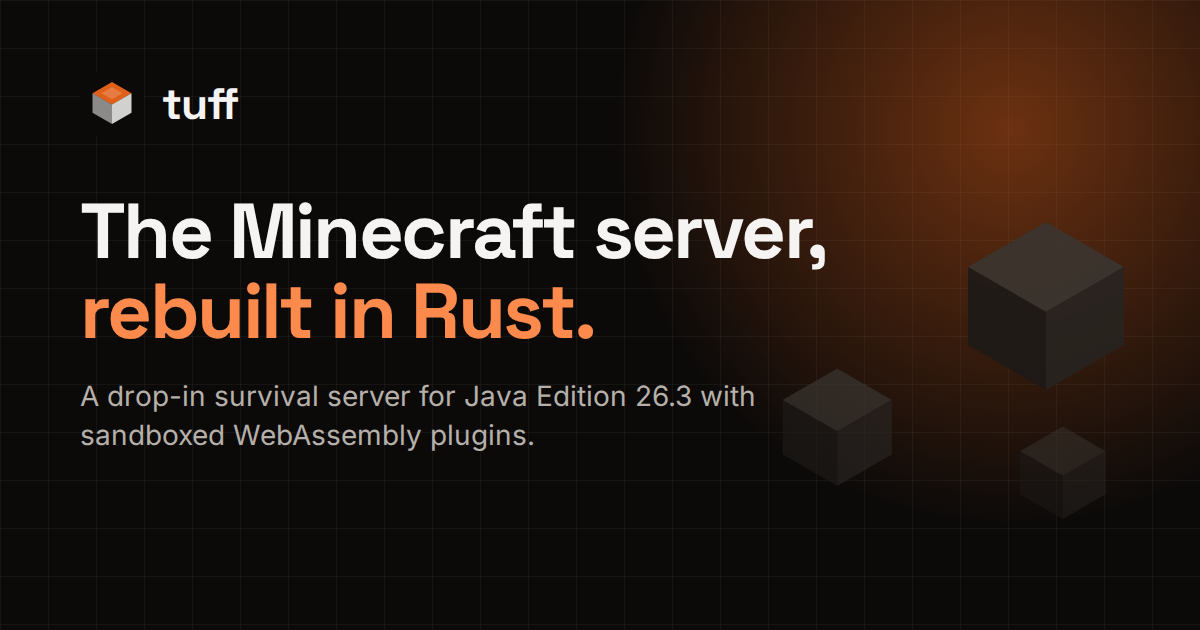
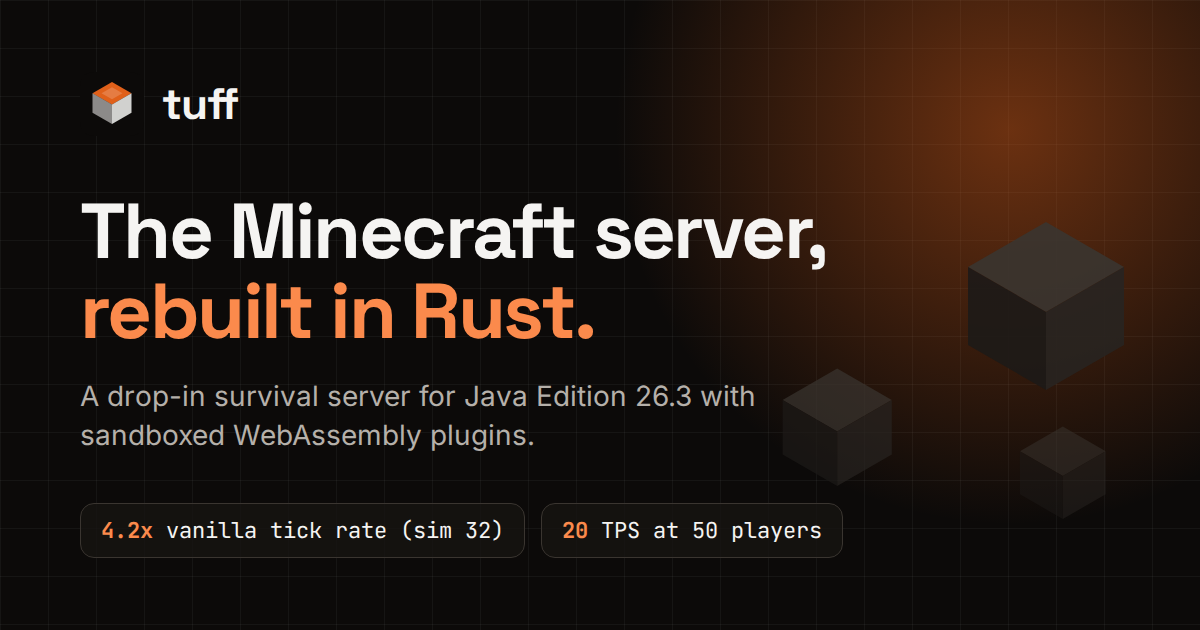
feat: restore performance content with identical-settings numbers
Village 4.2x the vanilla tick rate at simulation distance 32 (on ~4.8
cores vs 1) and 1.9x at 10, stress 20 vs 2.1 TPS at 50 players; drops
the memory claim since vanilla's RSS is its pre-allocated heap.

Changed region(s): [[0.0925, 0.8143, 0.4317, 0.8746], [0.4625, 0.8143, 0.6783, 0.8746]]

diff --git a/src/components/Perf.tsx b/src/components/Perf.tsx
@@ -4,25 +4,27 @@ import { useReveal } from "../lib/motion";
 type Metric = { bench: "Village" | "Stress"; label: string; unit: string; tuff: number; vanilla: number; better: "higher" | "lower"; ratio: string };
 
 export const metrics: Metric[] = [
-  { bench: "Village", label: "Ticks per second", unit: "ticks/s", tuff: 1026, vanilla: 89.6, better: "higher", ratio: "11.5x" },
-  { bench: "Village", label: "p99 tick", unit: "ms", tuff: 2.13, vanilla: 12.9, better: "lower", ratio: "6.1x lower" },
-  { bench: "Village", label: "Server memory", unit: "MiB", tuff: 1379, vanilla: 8966, better: "lower", ratio: "6.5x lower" },
-  { bench: "Stress", label: "TPS", unit: "TPS", tuff: 20.35, vanilla: 2.15, better: "higher", ratio: "9.5x" },
-  { bench: "Stress", label: "Mean tick", unit: "ms", tuff: 48.2, vanilla: 190, better: "lower", ratio: "3.9x lower" },
-  { bench: "Stress", label: "Server memory", unit: "MiB", tuff: 2514, vanilla: 9005, better: "lower", ratio: "3.6x lower" },
+  { bench: "Village", label: "Ticks per second, sim 32", unit: "ticks/s", tuff: 386, vanilla: 91.6, better: "higher", ratio: "4.2x" },
+  { bench: "Village", label: "Ticks per second, sim 10", unit: "ticks/s", tuff: 1019, vanilla: 529, better: "higher", ratio: "1.9x" },
+  { bench: "Village", label: "p99 tick, sim 32", unit: "ms", tuff: 4.52, vanilla: 12.75, better: "lower", ratio: "2.8x lower" },
+  { bench: "Stress", label: "TPS, sim 10", unit: "TPS", tuff: 20.0, vanilla: 2.12, better: "higher", ratio: "9.4x" },
+  { bench: "Stress", label: "TPS, sim 32", unit: "TPS", tuff: 14.2, vanilla: 1.92, better: "higher", ratio: "7.4x" },
+  { bench: "Stress", label: "Mean tick, sim 10", unit: "ms", tuff: 47.7, vanilla: 191.9, better: "lower", ratio: "4.0x lower" },
 ];
 
 const table = [
-  ["Village, 10-day sprint (1 player, 32-chunk view)", "ticks per second", "1026", "89.6", "11.5x"],
-  ["Village", "mean tick (ms)", "0.97", "11.15", "11.5x lower"],
-  ["Village", "p99 tick (ms)", "2.13", "12.9", "6.1x lower"],
-  ["Village", "server memory (MiB)", "1379", "8966", "6.5x lower"],
-  ["Village", "CPU cores used", "2.70", "1.02", ""],
-  ["Stress, 50 players mixed (12 flying, 12 mining, 26 walking; ~1250 entities; view 10)", "TPS", "20.35", "2.15", "9.5x (tuff at the 20 TPS cap)"],
-  ["Stress", "mean tick (ms)", "48.2", "190", "3.9x lower"],
-  ["Stress", "p99 tick (ms)", "102", "253", "2.5x lower"],
-  ["Stress", "server memory (MiB)", "2514", "9005", "3.6x lower"],
-  ["Stress", "CPU cores used", "15.35", "3.90", ""],
+  ["Village, sim 32 (1 player, 32-chunk view, 2-day sprint)", "ticks per second", "386", "91.6", "4.2x"],
+  ["Village, sim 32", "mean / p99 tick (ms)", "2.58 / 4.52", "10.9 / 12.8", ""],
+  ["Village, sim 32", "CPU cores used", "4.8", "1.0", ""],
+  ["Village, sim 10", "ticks per second", "1019", "529", "1.9x"],
+  ["Village, sim 10", "mean / p99 tick (ms)", "0.97 / 2.23", "1.88 / 3.17", ""],
+  ["Village, sim 10", "CPU cores used", "2.8", "1.1", ""],
+  ["Stress, sim 10 (50 players: 12 flying, 12 mining, 26 walking; 1250 mobs)", "TPS", "20.0", "2.1", "tuff at the 20 TPS cap"],
+  ["Stress, sim 10", "mean / p99 tick (ms)", "48 / 106", "192 / 254", ""],
+  ["Stress, sim 10", "CPU cores used", "15.4", "4.0", ""],
+  ["Stress, sim 32", "TPS", "14.2", "1.9", "7.4x"],
+  ["Stress, sim 32", "mean / p99 tick (ms)", "70 / 180", "196 / 241", ""],
+  ["Stress, sim 32", "CPU cores used", "14.8", "3.5", ""],
 ];
 
 const fmt = (n: number) => n.toLocaleString("en-US");

diff --git a/src/pages/Home.tsx b/src/pages/Home.tsx
@@ -96,9 +96,9 @@ function Hero() {
 function Stats() {
   const ref = useReveal<HTMLDivElement>();
   const stats = [
-    ["11.5x", "the vanilla tick rate", "Village benchmark, 10-day sprint"],
-    ["6.5x", "less server memory", "Village benchmark, 1379 vs 8966 MiB"],
-    ["20.35", "TPS with 50 players", "Stress run, vanilla held 2.15"],
+    ["4.2x", "the vanilla tick rate", "Village bench, sim distance 32, ~4.8 cores vs 1"],
+    ["1.9x", "at sim distance 10", "Village bench, 1019 vs 529 ticks/s"],
+    ["20", "TPS with 50 players", "Stress run, sim 10; vanilla held 2.1"],
     ["1.13+", "worlds load and upgrade", "Data version 1519 or newer"],
   ];
   return (
@@ -232,8 +232,8 @@ function Performance() {
     <Section
       id="performance"
       eyebrow="Performance"
-      title={<>More ticks. <span className="text-fg-muted">Less memory.</span></>}
-      intro="Measured side by side on a 16-vCPU Linux machine: tuff built with the release-opt profile against vanilla 26.3 on its bundled OpenJDK 25 with an 8 GB heap and Aikar's G1 flags. Both servers were warmed up first. Three alternating runs per server; medians shown."
+      title={<>More ticks. <span className="text-fg-muted">More cores.</span></>}
+      intro="Measured side by side on a 16-vCPU Linux VM (Intel i9-13900HK host): tuff built with the release-opt profile against vanilla 26.3 on its bundled OpenJDK 25 with an 8 GB heap and Aikar's G1 flags. Same seed, view and simulation distance, players and durations for both; worlds on disk; warmed up first. Five interleaved runs per server on a quiet machine; medians shown."
       cubes={[
         { side: "left", top: "30%", size: 110, rate: 210, axis: [0.6, 1, 0.2] },
         { side: "right", top: "82%", size: 58, rate: 320, axis: [1, 0.4, 0.5], mobile: true },
@@ -246,8 +246,8 @@ function Performance() {
         </div>
       </div>
       <div className="reveal mt-8 grid grid-cols-[minmax(0,1fr)] gap-4 text-sm leading-6 text-fg-muted md:grid-cols-2">
-        <p className="card p-5"><strong className="text-fg">tuff parallelises ticking across cores, so it uses more CPU:</strong> 2.70 cores against 1.02 in the village run, and 15.35 against 3.90 in the stress run, where it is near saturation on 16 cores. That makes the mean-tick ratio a fairer capacity comparison than TPS.</p>
-        <p className="card p-5"><strong className="text-fg">Vanilla's memory is high partly because its 8 GB heap is pre-touched.</strong> Reproduce the runs with <code className="font-mono text-[0.85em] text-fg">cargo bench --bench village -- --server both</code> or the <code className="font-mono text-[0.85em] text-fg">stress</code> bench.</p>
+        <p className="card p-5"><strong className="text-fg">The lead comes from parallelism, not from doing less work:</strong> at simulation distance 32 tuff runs 4.2x the village tick rate using about 4.8 cores against vanilla's 1, and per core it is slightly slower. In the stress run it uses 15 of 16 cores. The village run also ends with fewer entities on tuff (about 540 vs 810).</p>
+        <p className="card p-5"><strong className="text-fg">Memory is not compared:</strong> vanilla's resident memory is dominated by its pre-allocated 8 GB heap. Reproduce the runs with <code className="font-mono text-[0.85em] text-fg">cargo bench --bench village -- --server both</code> or the <code className="font-mono text-[0.85em] text-fg">stress</code> bench.</p>
       </div>
     </Section>
   );

diff --git a/scripts/prerender.ts b/scripts/prerender.ts
@@ -68,13 +68,14 @@ const home = `<main data-snapshot style="max-width:72rem;margin:0 auto;padding:4
 <p>tuff is a drop-in survival server for Minecraft Java Edition 26.3. The vanilla game runs as built-in features on an inert core, and external plugins are sandboxed WebAssembly modules.</p>
 <p><a href="${SITE}docs/introduction/">Get started</a> | <a href="${SITE}blog/">Blog</a> | <a href="https://github.com/brenfwd/tuff">GitHub</a></p>
 ${SHOW_PERFORMANCE ? `<h2>Performance</h2>
+<p>Same seed, view and simulation distance, players and durations for both servers; 16-vCPU Linux VM; vanilla 26.3 on OpenJDK 25 with an 8 GB heap and Aikar's flags; medians of five runs.</p>
 <table><thead><tr><th>Benchmark</th><th>Metric</th><th>tuff</th><th>Vanilla</th></tr></thead><tbody>
-<tr><td>Village, 10-day sprint</td><td>ticks per second</td><td>1026</td><td>89.6</td></tr>
-<tr><td>Village</td><td>p99 tick (ms)</td><td>2.13</td><td>12.9</td></tr>
-<tr><td>Village</td><td>server memory (MiB)</td><td>1379</td><td>8966</td></tr>
-<tr><td>Stress, 50 players mixed</td><td>TPS</td><td>20.35</td><td>2.15</td></tr>
-<tr><td>Stress</td><td>mean tick (ms)</td><td>48.2</td><td>190</td></tr>
-<tr><td>Stress</td><td>server memory (MiB)</td><td>2514</td><td>9005</td></tr>
+<tr><td>Village, sim distance 32</td><td>ticks per second</td><td>386</td><td>91.6</td></tr>
+<tr><td>Village, sim distance 32</td><td>CPU cores used</td><td>4.8</td><td>1.0</td></tr>
+<tr><td>Village, sim distance 10</td><td>ticks per second</td><td>1019</td><td>529</td></tr>
+<tr><td>Stress, 50 players, sim distance 10</td><td>TPS</td><td>20.0</td><td>2.1</td></tr>
+<tr><td>Stress, 50 players, sim distance 32</td><td>TPS</td><td>14.2</td><td>1.9</td></tr>
+<tr><td>Stress, 50 players, sim distance 10</td><td>CPU cores used</td><td>15.4</td><td>4.0</td></tr>
 </tbody></table>
 ` : ""}<h2>Documentation</h2>${docNav}</main>`;
 

diff --git a/src/components/TickRace.tsx b/src/components/TickRace.tsx
@@ -1,7 +1,7 @@
 import { useEffect, useRef, useState } from "react";
 import { prefersReducedMotion } from "../lib/motion";
 
-const RATES = { tuff: 1026, vanilla: 89.6 };
+const RATES = { tuff: 386, vanilla: 91.6 };
 const DAY = 24000;
 
 /** Counts ticks at the measured village-benchmark rates while the panel is on screen. */
@@ -73,7 +73,7 @@ export function TickRace() {
         })}
       </div>
       <p className="mt-6 border-t border-line pt-4 text-xs leading-5 text-fg-subtle">
-        Village benchmark, 10-day sprint, 1 player, 32-chunk view. A Minecraft day is 24,000 ticks, so tuff simulates about 2.6 days a minute where vanilla manages about 0.22.
+        Village benchmark, 2-day sprint, 1 player, view and simulation distance 32 for both servers; tuff on about 4.8 cores, vanilla on 1. A Minecraft day is 24,000 ticks, so tuff simulates about 0.97 days a minute where vanilla manages about 0.23.
       </p>
     </div>
   );

diff --git a/src/components/Footer.tsx b/src/components/Footer.tsx
@@ -5,7 +5,7 @@ import { REPO_URL } from "../lib/site";
 export function Footer() {
   const cols = [
     { title: "Get started", links: [["/docs/introduction", "Introduction"], ["/docs/installing", "Installing"], ["/docs/running", "Running"], ["/docs/settings", "Settings"]] },
-    { title: "Build", links: [["/docs/plugins", "WebAssembly plugins"], ["/docs/features", "Built-in features"], ["/docs/data-packs", "Data packs"]] },
+    { title: "Build", links: [["/docs/plugins", "WebAssembly plugins"], ["/docs/features", "Built-in features"], ["/docs/data-packs", "Data packs"], ["/docs/performance", "Performance"]] },
     { title: "Project", links: [["/blog", "Blog"], [REPO_URL, "Source code"], [`${REPO_URL}/issues`, "Issues"], [`${REPO_URL}/blob/main/CONTRIBUTING.md`, "Contributing"], ["/docs/license", "License"]] },
   ];
   return (

diff --git a/scripts/og-image.ts b/scripts/og-image.ts
@@ -37,7 +37,7 @@ svg.cubes{position:absolute;right:40px;bottom:30px}
 <div class="wrap"><div class="brand">${favicon.replace("<svg ", '<svg width="64" height="64" ')}tuff</div>
 <h1>The Minecraft server,<br><span>rebuilt in Rust.</span></h1>
 <p>A drop-in survival server for Java Edition 26.3 with sandboxed WebAssembly plugins.</p>
-${SHOW_PERFORMANCE ? `<div class="stats"><div class="stat"><b>11.5x</b> vanilla tick rate</div><div class="stat"><b>6.5x</b> less memory</div><div class="stat"><b>20.35</b> TPS at 50 players</div></div>` : ""}</div>
+${SHOW_PERFORMANCE ? `<div class="stats"><div class="stat"><b>4.2x</b> vanilla tick rate (sim 32)</div><div class="stat"><b>20</b> TPS at 50 players</div></div>` : ""}</div>
 </body></html>`;
 
 const browser = await chromium.launch();

diff --git a/src/lib/site.ts b/src/lib/site.ts
@@ -1,8 +1,7 @@
 export const SITE_URL = "https://tuff.bforward.me/";
 export const REPO_URL = "https://github.com/brenfwd/tuff";
 export const SITE_NAME = "tuff";
-// Off until the side-by-side benchmark is re-measured with identical settings.
-export const SHOW_PERFORMANCE = false;
+export const SHOW_PERFORMANCE = true;
 export const TAGLINE = "A Minecraft Java Edition server written in Rust";
 export const DESCRIPTION =
   "tuff is a high-performance Minecraft Java Edition 26.3 server written in Rust. The vanilla game runs as built-in features on an inert core, and external plugins are sandboxed WebAssembly modules.";

diff --git a/src/components/Header.tsx b/src/components/Header.tsx
@@ -19,6 +19,7 @@ function useTheme() {
 const nav = [
   { href: "/docs/introduction", label: "Docs", match: "/docs" },
   { href: "/docs/plugins", label: "Plugins", match: "/docs/plugins" },
+  { href: "/docs/performance", label: "Performance", match: "/docs/performance" },
   { href: "/blog", label: "Blog", match: "/blog" },
 ];
 

diff --git a/content/docs/performance.md b/content/docs/performance.md
@@ -5,30 +5,35 @@ group: Reference
 source: README.md
 ---
 
-Measured side by side on a 16-vCPU Linux machine: tuff built with the
-`release-opt` profile, vanilla 26.3 on its bundled OpenJDK 25 with
-`-Xms8G -Xmx8G` and Aikar's G1 flags. Both servers were warmed up first:
-the stress run ran 120 s before a 60 s measured window, and the village run
-did a discarded 1-day sprint before the measured 10-day sprint. Three
-alternating runs per server; medians shown.
+Measured side by side on a 16-vCPU Linux VM (Intel i9-13900HK host):
+tuff built with the `release-opt` profile, vanilla 26.3 on its bundled
+OpenJDK 25 with `-Xms8G -Xmx8G` and Aikar's G1 flags. Both servers used the
+same seed, view and simulation distance, players and durations, with worlds
+on disk. Each run started on a quiet machine after a warm-up (village: a
+discarded 1-day sprint before a measured 2-day sprint; stress: 120 s before
+a 60 s window). Five interleaved runs per server; medians shown.
 
-| Benchmark | Metric | tuff | Vanilla | Ratio |
+| Benchmark | Sim distance | Metric | tuff | Vanilla |
 | --- | --- | --- | --- | --- |
-| Village, 10-day sprint (1 player, 32-chunk view) | ticks per second | 1026 | 89.6 | 11.5x |
-| Village | mean tick (ms) | 0.97 | 11.15 | 11.5x lower |
-| Village | p99 tick (ms) | 2.13 | 12.9 | 6.1x lower |
-| Village | server memory (MiB) | 1379 | 8966 | 6.5x lower |
-| Village | CPU cores used | 2.70 | 1.02 | |
-| Stress, 50 players mixed (12 flying, 12 mining, 26 walking; ~1250 entities; view 10) | TPS | 20.35 | 2.15 | 9.5x (tuff at the 20 TPS cap) |
-| Stress | mean tick (ms) | 48.2 | 190 | 3.9x lower |
-| Stress | p99 tick (ms) | 102 | 253 | 2.5x lower |
-| Stress | server memory (MiB) | 2514 | 9005 | 3.6x lower |
-| Stress | CPU cores used | 15.35 | 3.90 | |
+| Village (1 player, 32-chunk view) | 32 | ticks per second | 386 | 91.6 |
+| | 32 | mean / p99 tick (ms) | 2.58 / 4.52 | 10.9 / 12.8 |
+| | 32 | CPU cores used | 4.8 | 1.0 |
+| | 10 | ticks per second | 1019 | 529 |
+| | 10 | mean / p99 tick (ms) | 0.97 / 2.23 | 1.88 / 3.17 |
+| | 10 | CPU cores used | 2.8 | 1.1 |
+| Stress (50 players: 12 flying, 12 mining, 26 walking; 1250 mobs) | 10 | TPS | 20.0 (cap) | 2.1 |
+| | 10 | mean / p99 tick (ms) | 48 / 106 | 192 / 254 |
+| | 10 | CPU cores used | 15.4 | 4.0 |
+| | 32 | TPS | 14.2 | 1.9 |
+| | 32 | mean / p99 tick (ms) | 70 / 180 | 196 / 241 |
+| | 32 | CPU cores used | 14.8 | 3.5 |
 
-tuff parallelises ticking across cores, so it uses more CPU; in the stress
-run it is near saturation on 16 cores, so the mean-tick ratio is a fairer
-capacity comparison than TPS. Vanilla's memory is high partly because its
-8 GB heap is pre-touched.
+tuff's lead comes from spreading the tick across cores, not from doing less
+work per core: on the village at simulation distance 32 it runs 4.2x the
+tick rate using about 4.8 cores against vanilla's 1, and per core it is
+slightly slower. Memory is not compared: vanilla's RSS is dominated by its
+pre-allocated 8 GB heap. The village run also ends with fewer entities on
+tuff (about 540 vs 810), so mob behaviour is not yet an exact match.
 
 To reproduce, run `cargo bench --bench village -- --server both` or
 `cargo bench --bench stress -- --server both` (`--server` also takes

diff --git a/content/docs/settings.md b/content/docs/settings.md
@@ -204,3 +204,40 @@ selection every 4 ticks (every 8 when no player is within 32 blocks)
 instead of every 2. Tempting, breeding, wandering and targeting still
 work, with a few ticks more latency. The server logs once when a region
 enters or leaves crowd mode. Off, behaviour is vanilla.
+
+## Item conservation and save safety
+
+Item stacks are move-only: a stack moves between players, containers,
+entities and regions instead of being copied, and appears (loot,
+crafting, `/give`) or disappears (eating, burning, `/clear`) only through
+a few audited doors; plugins follow the same rules (see What the ABI
+offers). Menu clicks and container and entity-container transactions
+between a player and a region are checked; other transfers (dropped items,
+hoppers and item ports across regions, hand-to-mob handovers) are not yet.
+In release builds the checks are on unless
+`tuff.items.conservationChecks` is `false`. An operation that would make
+or lose items is refused instead of applied: the server logs it, writes a
+`tuff:item_conservation` row to the audit log, and quarantines the region
+and player involved. A quarantined region trades no items with players and
+is not saved until it unloads; a quarantined player is not saved and,
+while `tuff.items.conservationKick` is `true` (the default), is
+disconnected so its client reloads the last consistent save. Debug builds
+and tests always check, and a stack dropped without being stored or burned
+panics there (release builds log it); every world save reports items lost
+that way.
+
+| Key | Default | Effect |
+|-----|---------|--------|
+| `tuff.items.conservationChecks` | `true` | Check item moves in release builds and refuse, audit and quarantine on a violation |
+| `tuff.items.conservationKick` | `true` | Disconnect a player involved in a refused item operation |
+
+A world save lands whole or not at all. Before a save's first write to a
+chunk or player file, the previous contents go to a journal (a
+`tuff-journal` directory in a world folder, two tables in a server file),
+and the save commits once every player and chunk it covers is written. If
+the server stops before that (a crash, an I/O error, a save that failed),
+the next start restores the last complete save, so a player is never
+loaded newer than the chests it traded with. A failed write stops commits
+until the next start, which then restores the last complete save; the log
+says so. A save whose snapshot takes longer than a second is completed by
+the next save.

diff --git a/content/docs/plugins.md b/content/docs/plugins.md
@@ -234,6 +234,11 @@ backend that emits a core module can target it.
   65,536 changes.
 - Block events: a player broke or placed a block (payload: `x y z
   dimension state`). They arrive after the change and cannot cancel it.
+- Items: a plugin holds items only in host-owned stashes (`stash-new`,
+  `stash-mint`, `stash-split`, `stash-merge`, `stash-burn`) and moves them
+  with `give-stash` and `take-into-stash`, so it can make, move and use up
+  items but never copy one. Up to 1024 stashes at once; a stash still
+  holding items when the plugin unloads or faults is used up.
 - Messages to another loaded plugin, delivered after the call to its
   `tuff_message` with the sender's id, followed at most 8 deep when
   handlers answer each other.
